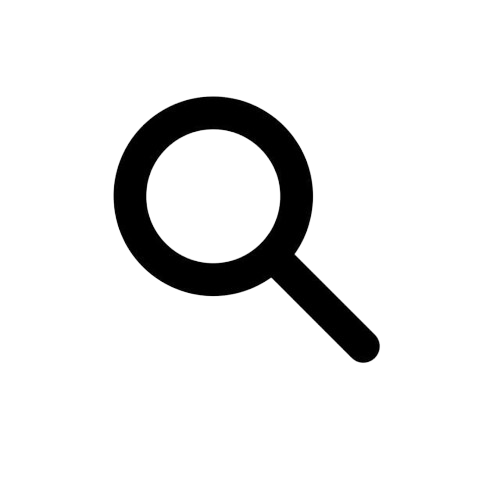
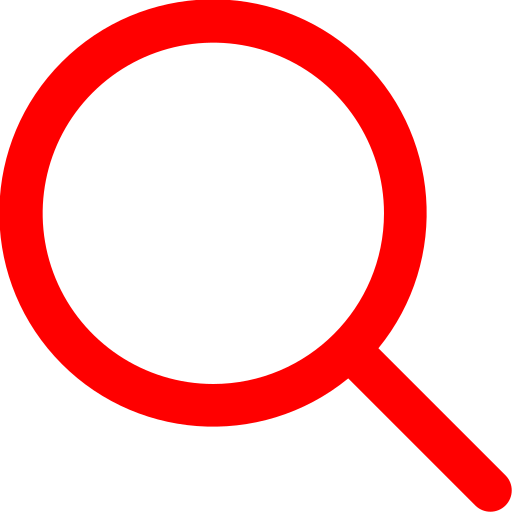
navbar and footer update

diff --git a/src/Components/footer.jsx b/src/Components/footer.jsx
@@ -2,24 +2,27 @@ import "./footer.scss";
 
 function Footer() {
     return (
-      <div>
-        <div className="Logo">
-          <a href="/" className="logo-footer"><img src="./public/logo.png" alt="Logo" /></a>
-          <a href="https://www.facebook.com" className="icons-footer"><img src="./public/facebook.png" alt="Facebook" /></a>
-          <a href="https://www.instagram.com" className="icons-footer"><img src="./public/instagram.png" alt="Instagram" /></a>
-          <a href="https://www.twitter.com" className="icons-footer"><img src="./public/twitter.png" alt="Twitter" /></a>
+      <div className="footer">
+        <div className="logo">
+          <a href="/" className="logo-footer"><img src="./public/logo-footer2.png" alt="Logo" /></a>
+          <div className="icons">
+            <a href="https://www.instagram.com" className="icons-footer"><img src="./public/instagram.png" alt="Instagram" /></a>
+            <a href="https://www.twitter.com" className="icons-footer"><img src="./public/twitter.png" alt="Twitter" /></a>
+            <a href="https://www.facebook.com" className="icons-footer"><img src="./public/facebook.png" alt="Facebook" /></a>
+          </div>
           <p>Porto Education. © 2024. <br /> All Rights Reserved</p>
         </div>
-        <div className="AboutUs">
-          <h2>About Us</h2>
-            <p>- Porto Education</p>
-            <p>- 123 Porto Blvd, Suite 100</p>
-            <p>- New York, NY</p>
-            <p>- Phone: <a href="tel:123-456-7890">123-456-7890</a></p>
-            <p>- Email: <a href="mailto:porto@domain.com">porto@domain.com</a></p>
+        <div className="Information">
+        <div className="About">
+          <h3>About Us</h3>
+            <p>Porto Education</p>
+            <p>123 Porto Blvd, Suite 100</p>
+            <p>New York, NY</p>
+            <p>Phone: <a href="tel:123-456-7890">123-456-7890</a></p>
+            <p>Email: <a href="mailto:porto@domain.com">porto@domain.com</a></p>
         </div>
         <div className="Navigation">
-          <h2>Navigation</h2>
+          <h3>Navigation</h3>
             <a href="/">- Home</a>
             <a href="/About">- About Us</a>
             <a href="/Courses">- Courses</a>
@@ -28,18 +31,20 @@ function Footer() {
             <a href="/Contact">- Contact Us</a>
         </div>
         <div className="Support">
-          <h2>Support</h2>
+          <h3>Support</h3>
             <a href="/">- Documentation</a>
             <a href="/">- Forums</a>
             <a href="/">- Open a Ticket</a>
             <a href="/">- FAQ's</a>
         </div>
         <div className="More">
-          <h2>More</h2>
+          <h3>More</h3>
             <a href="/">- Terms of Use</a>
             <a href="/">- Privacy Policy</a>
         </div>
       </div>
+      </div>
+
     )
   }
   

diff --git a/src/Components/navbar.jsx b/src/Components/navbar.jsx
@@ -1,21 +1,24 @@
-import { Link } from "react-router-dom"
+import { useState } from "react";
+import { NavLink } from "react-router-dom";
+import "./navbar.scss";
+
 function Navbar() {
-    return (
-      <div>
-        <div>
-          <Link href="/"><img src="./public/logo.png" alt="Logo" /></Link>
-        </div>
-        <div>
-          <Link to="/" id="Home">Home</Link>
-          <Link to="/About" id="About">About Us</Link>
-          <Link to="/Courses" id="Courses">Courses</Link>
-          <Link to="/Instructors" id="Instructors">Instructors</Link>
-          <Link to="/Blog" id="Blog">Blog</Link>
-          <Link to="/Contact" id="Contact">Contact Us</Link>
-          <button><img src="./public/search-red.png" alt="Search" /></button>
-        </div>
+  return (
+    <div className="navbar">
+      <div className="logo">
+        <NavLink to="/"><img src="./public/logo.png" alt="Logo" /></NavLink>
       </div>
-    )
-  }
-  
-  export default Navbar
+      <div className="link">
+        <NavLink to="/" exact activeClassName="active" id="Home">Home</NavLink>
+        <NavLink to="/About" activeClassName="active" id="About">About Us</NavLink>
+        <NavLink to="/Courses" activeClassName="active" id="Courses">Courses</NavLink>
+        <NavLink to="/Instructors" activeClassName="active" id="Instructors">Instructors</NavLink>
+        <NavLink to="/Blog" activeClassName="active" id="Blog">Blog</NavLink>
+        <NavLink to="/Contact" activeClassName="active" id="Contact">Contact Us</NavLink>
+        <button ><img src="./public/search.png" alt="Search" /></button>
+      </div>
+    </div>
+  );
+}
+
+export default Navbar;

diff --git a/src/Components/footer.scss b/src/Components/footer.scss
@@ -1,5 +1,59 @@
 @import './src/responsive.scss';
 
-ul {
-    list-style-type: none;
+.footer{
+    position: fixed;
+    bottom: 0;
+    width: 100%;
+    display: flex;
+    justify-content: center;
+    height: 42vh;
+    gap: 100px;
+    background-color: #332859;
+    h3{
+        color: white;
+    }
+
+    .logo{
+        display: flex;
+        flex-direction: column;
+        gap: 10px;
+        padding-top: 80px;
+        .logo-footer{
+            img{
+                height: 30px;
+            }
+        }
+        .icons{
+            img{
+                padding-left: 15px;
+                height: 15px;
+            }
+        }
+    }
+    .Information{
+        display: flex;
+        padding-top: 80px;
+        gap: 100px;
+        p{
+            display: flex;
+            padding-top: 10px;
+        }
+        a{
+            display: flex;
+            padding-top: 10px;
+            flex-direction: column;
+            padding-right: 5px;
+            &:hover{
+                padding-right: 0px;
+                padding-left: 5px;
+                color: #682d2d;
+                transition: ease .3s;
+            }
+        }
+        .About{
+            a{
+                padding-top: 0px;
+            }
+        }
+    }
 }

diff --git a/src/Components/navbar.scss b/src/Components/navbar.scss
@@ -1,0 +1,36 @@
+@import './src/responsive.scss';
+
+.navbar{
+    display: flex;
+    justify-content: space-evenly;
+    align-items: center;
+    height: 10vh;
+
+    .logo{
+        img{
+            scale: 0.5;
+        }
+    }
+
+    .link{
+        a{
+            padding:0px 30px 0px 0px;
+            color: #332859;
+            &:hover{
+                color: #332859;
+            }
+            &.active{
+                color: red;
+            }
+        }
+        button{
+            background-color: transparent;
+            border: none;
+            img{
+                height: 18px;
+                width: 18px;
+            }
+        }
+    }
+}
+ 

diff --git a/index.html b/index.html
@@ -5,10 +5,10 @@
     <meta name="viewport" content="width=device-width, initial-scale=1.0" />
     <title>Let's Learn</title>
     <meta name="description" content="Learning Website" />
-    <link
-      href="https://fonts.googleapis.com/css2?family=Lato:ital,wght@0,100;0,300;0,400;0,700;0,900;1,100;1,300;1,400;1,700;1,900&display=swap"
-      rel="stylesheet"
-    />
+    <style>
+      @import url("https://fonts.googleapis.com/css2?family=Alata&display=swap");
+    </style>
+    <link rel="stylesheet" href="src/index.css" />
   </head>
   <body>
     <div id="root"></div>

diff --git a/src/index.css b/src/index.css
@@ -1,0 +1,19 @@
+*{
+    margin: 0px;
+    padding: 0px;
+}
+body{
+    font-family: "Alata", sans-serif;
+}
+a{
+    font-size: 15px;
+    color: #908ca3;
+    text-decoration: none;
+}
+h2{
+    color: #332859;
+}
+p{
+    font-size: 15px;
+    color: #908ca3;
+}
